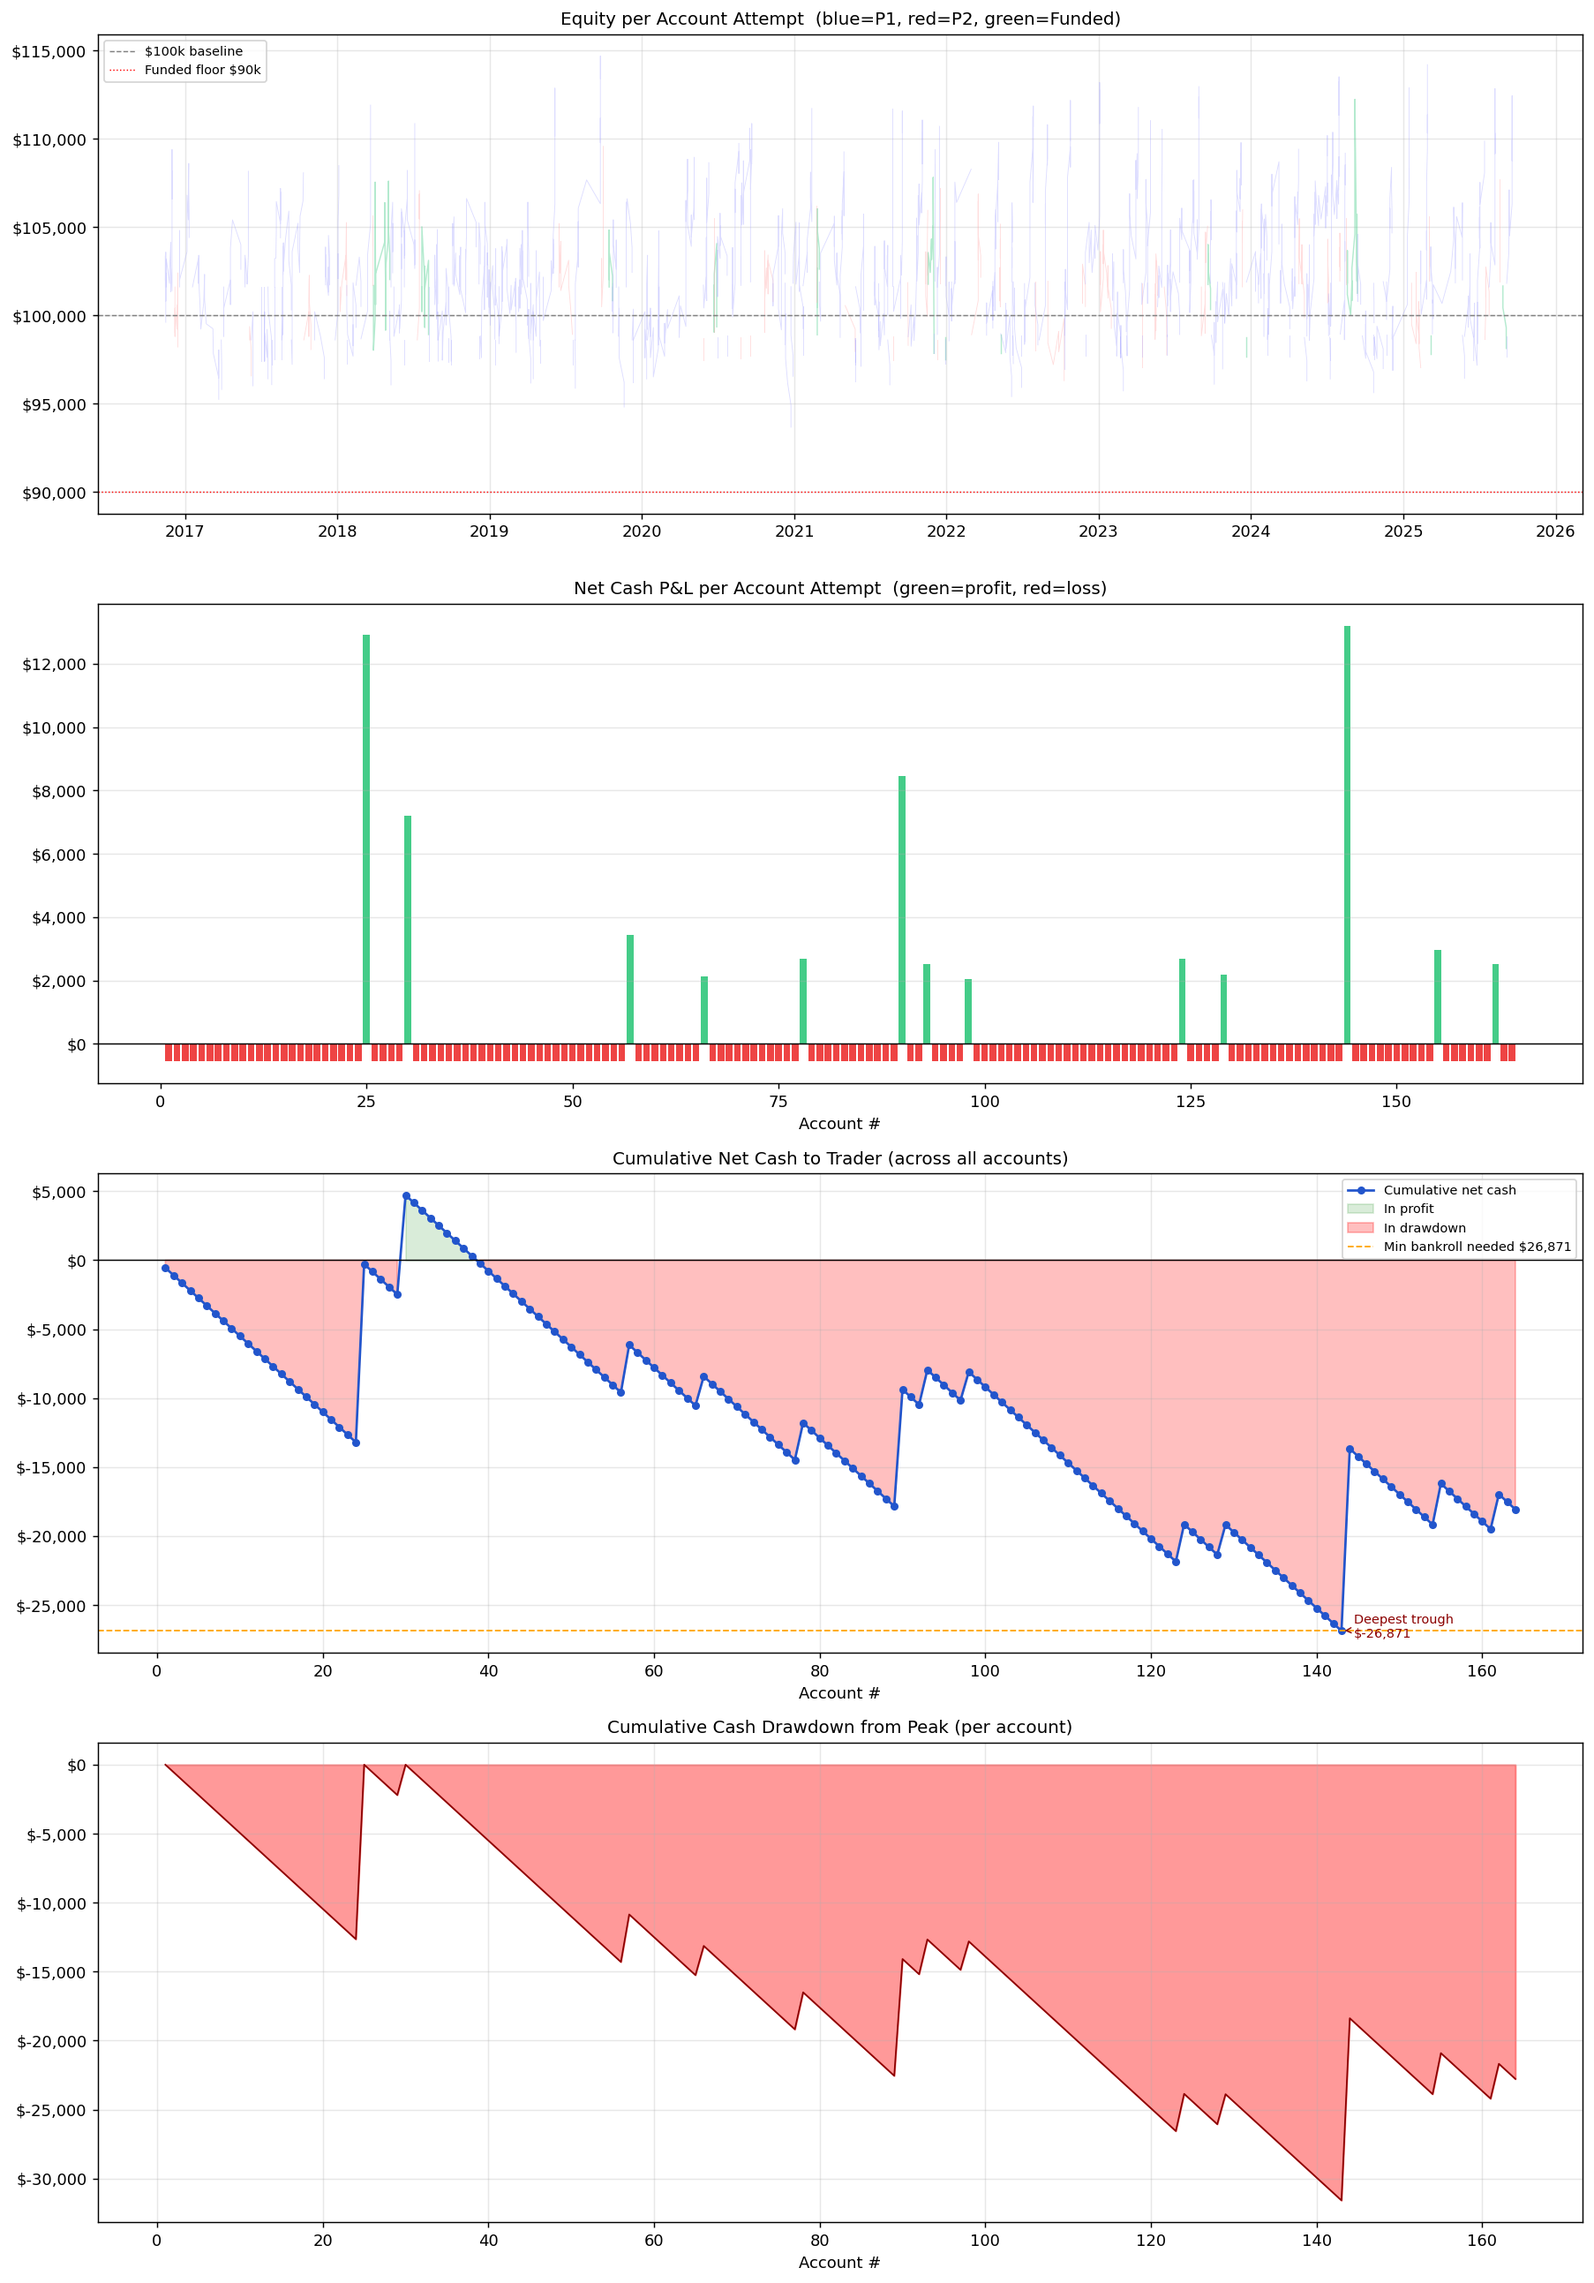
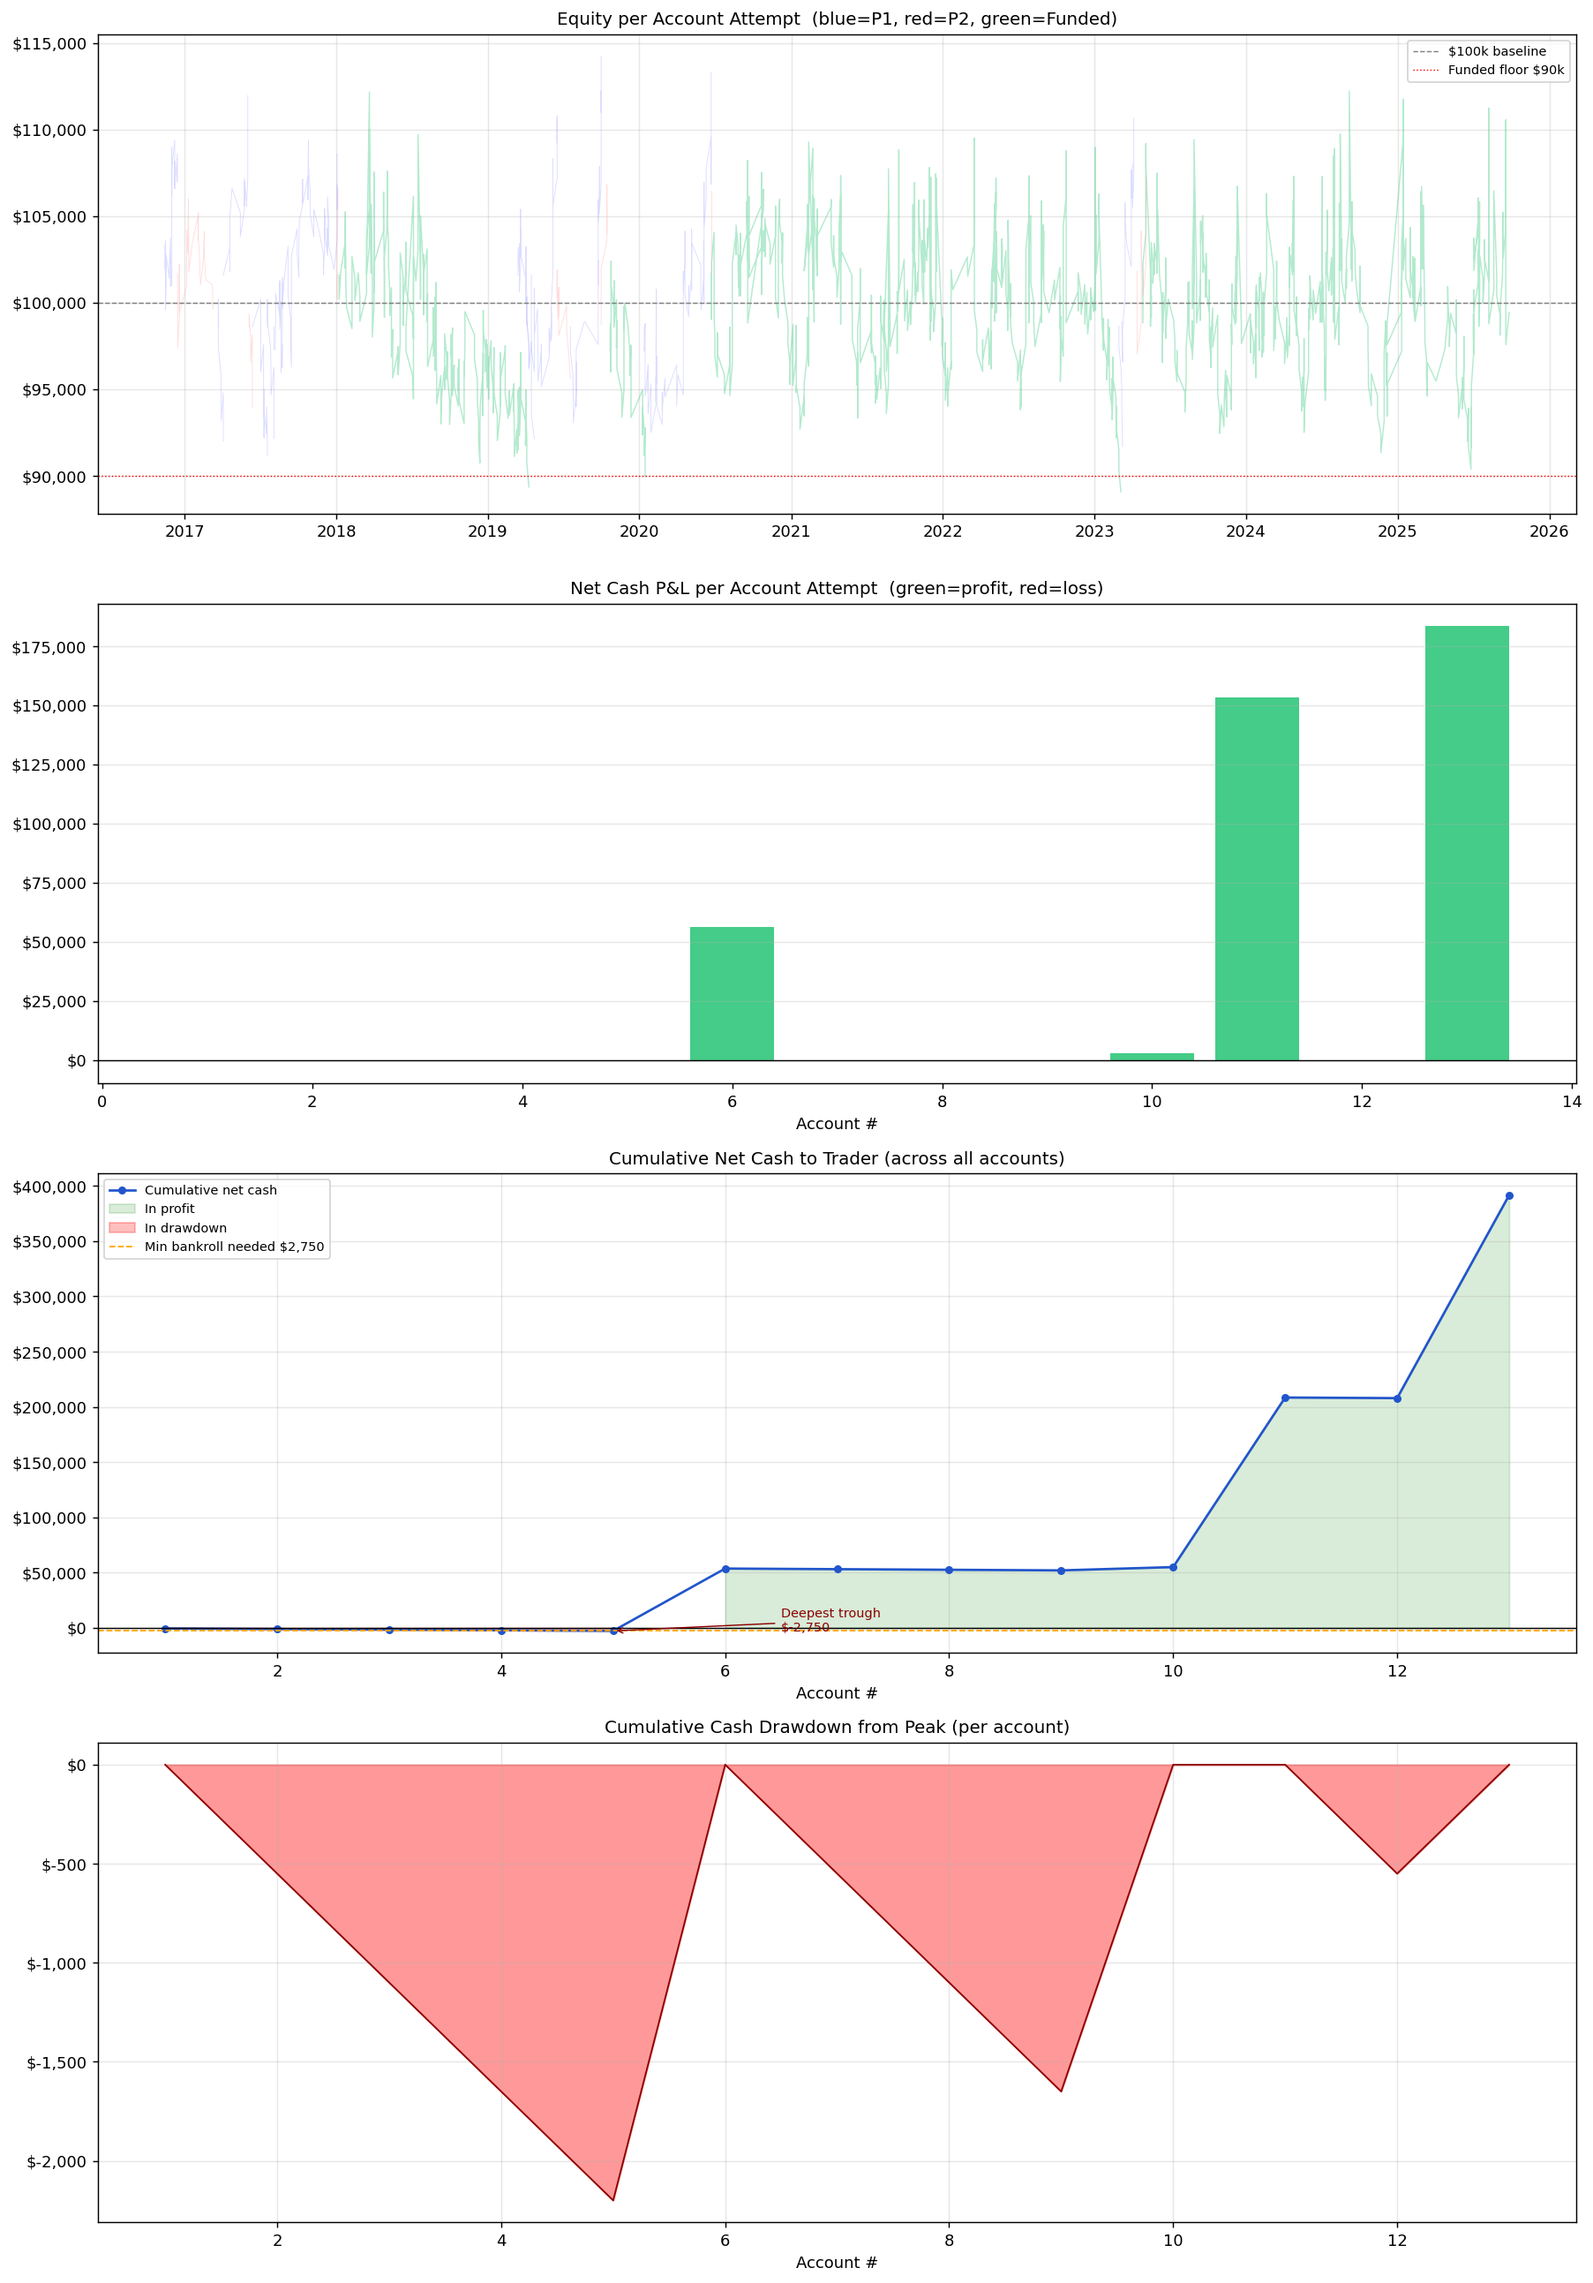
Fix: $2k is personal daily stop (not prop-firm DD), restore 5k prop-firm daily DD
Agent-Logs-Url: https://github.com/samiabat/potential-octo-telegram/sessions/06f3bbd6-4395-4cde-8c83-08caba7a1cae

diff --git a/run_funded_sim.py b/run_funded_sim.py
@@ -11,11 +11,16 @@ Prop-firm rules assumed:
   Phase 1 profit target : 8%  = $8,000   |  max DD (trailing) : 8%  = $8,000
   Phase 2 profit target : 5%  = $5,000   |  max DD (trailing) : 5%  = $5,000
   Funded max DD         : 10% = $10,000  (static — floor = $90,000)
-  Daily DD limit        : $2,000/day     (all phases, from SOD equity)
+  Daily DD limit        : 5%  = $5,000   (prop-firm rule — all phases, from SOD equity)
   Fee reimbursed        : yes, when both challenge phases are passed
   Challenge bonus       : 15% of net challenge P&L (P1+P2), paid on funding
   Profit split          : 90% to trader
   Payout trigger        : $5,000 funded profit (equity ≥ $105,000)
+
+Personal risk management:
+  Personal daily stop   : $2,000/day  — trader stops trading for the rest of the day
+                          once the day's loss reaches $2k. The account is NOT blown;
+                          prop-firm daily limit ($5k) is the actual account-killer.
 
 Risk sizing: 1% of $100k = $1,000 per R  (scaled from original $10k backtests)
 """
@@ -46,7 +51,8 @@ P2_TRAIL_DD       = 5_000       # 5% trailing from peak
 # Funded thresholds
 FUNDED_STATIC_DD  = 10_000      # 10% below $100k → floor = $90k
 FUNDED_FLOOR      = ACCOUNT_SIZE - FUNDED_STATIC_DD   # $90,000
-DAILY_DD_LIMIT    = 2_000       # $2,000/day max loss (from SOD equity)
+DAILY_DD_LIMIT       = 5_000       # 5% of $100k — prop-firm rule (account blown if breached)
+PERSONAL_DAILY_STOP  = 2_000       # trader's self-imposed stop: quit the day at -$2k (no blow)
 
 PAYOUT_TRIGGER    = 5_000       # request payout when funded profit ≥ $5,000
 
@@ -68,35 +74,49 @@ print()
 
 # ── Helper — simulate one "phase" from a given trade index ─────────────────────
 def run_phase(trade_idx, start_equity, trail_dd_limit, profit_target,
-              daily_dd_limit=DAILY_DD_LIMIT):
+              daily_dd_limit=DAILY_DD_LIMIT,
+              personal_daily_stop=PERSONAL_DAILY_STOP):
     """
     Simulate one challenge phase (or funded period with profit_target=None).
+
+    Prop-firm blow conditions (account lost):
+      • daily_dd_limit  : day's loss from SOD equity exceeds prop-firm limit ($5k)
+      • trail_dd_limit  : equity drops more than X below trailing peak (challenge phases)
+      • funded floor    : equity falls below $90k (funded phase)
+
+    Personal risk management:
+      • personal_daily_stop : if day's loss reaches this amount ($2k), skip the rest of
+                              today's trades and move to the next trading day (no blow).
 
     Returns dict with keys:
       end_idx       : next trade index after this phase
       end_equity    : final equity
-      blown         : bool — hit a DD limit
+      blown         : bool — hit a prop-firm DD limit (account gone)
       target_hit    : bool — hit the profit target
       trades_log    : list of (date, pnl, equity) tuples
-      daily_blown   : bool — blown by daily DD specifically
+      daily_blown   : bool — blown by the prop-firm daily DD specifically
+      days_stopped  : int  — number of days trading was cut short by personal stop
     """
     equity = start_equity
     peak   = start_equity          # for trailing DD
     blown  = False
-    daily_blown = False
-    target_hit  = False
-    trades_log  = []
+    daily_blown  = False
+    target_hit   = False
+    trades_log   = []
+    days_stopped = 0               # count of days ended early by personal stop
 
     # Group trades by day for daily-DD enforcement
     remaining = trades.iloc[trade_idx:].copy()
     if remaining.empty:
         return dict(end_idx=trade_idx, end_equity=equity, blown=False,
-                    target_hit=False, trades_log=[], daily_blown=False)
+                    target_hit=False, trades_log=[], daily_blown=False,
+                    days_stopped=0)
 
     idx = trade_idx
     for date, day_grp in remaining.groupby("date"):
-        sod_equity = equity          # start-of-day for daily DD check
-        day_blown  = False
+        sod_equity      = equity          # start-of-day for daily DD / personal stop
+        day_blown       = False
+        day_personally_stopped = False
 
         for row_idx in day_grp.index:
             row = trades.loc[row_idx]
@@ -106,33 +126,44 @@ def run_phase(trade_idx, start_equity, trail_dd_limit, profit_target,
             idx += 1
             trades_log.append((date, pnl, equity))
 
-            # ── Daily DD check ─────────────────────────────────────
-            if sod_equity - equity > daily_dd_limit:
+            day_loss = sod_equity - equity   # positive = loss on the day
+
+            # ── Prop-firm daily DD check (account blown) ────────────
+            if day_loss >= daily_dd_limit:
                 blown = True; daily_blown = True; day_blown = True
                 break
 
-            # ── Phase DD check (trailing from peak) ────────────────
+            # ── Phase DD check (trailing from peak) ─────────────────
             if trail_dd_limit is not None:
                 if peak - equity > trail_dd_limit:
                     blown = True; day_blown = True
                     break
 
-            # ── Funded static floor check ───────────────────────────
+            # ── Funded static floor check ────────────────────────────
             if trail_dd_limit is None:          # funded — static floor
                 if equity < FUNDED_FLOOR:
                     blown = True; day_blown = True
                     break
 
+            # ── Personal daily stop (not a blow — just done for today)
+            if personal_daily_stop is not None and day_loss >= personal_daily_stop:
+                day_personally_stopped = True
+                break
+
         if day_blown or blown:
             break
 
-        # ── End-of-day profit target check ─────────────────────────
+        if day_personally_stopped:
+            days_stopped += 1
+            # continue to next day — account still live
+
+        # ── End-of-day profit target check ──────────────────────────
         if profit_target is not None:
             if equity - ACCOUNT_SIZE >= profit_target:
                 target_hit = True
                 break
 
-        # ── Funded payout check (end of day) ───────────────────────
+        # ── Funded payout check (end of day) ─────────────────────────
         if profit_target is None:
             if equity - ACCOUNT_SIZE >= PAYOUT_TRIGGER:
                 target_hit = True   # signals "payout ready"
@@ -140,7 +171,7 @@ def run_phase(trade_idx, start_equity, trail_dd_limit, profit_target,
 
     return dict(end_idx=idx, end_equity=equity, blown=blown,
                 target_hit=target_hit, trades_log=trades_log,
-                daily_blown=daily_blown)
+                daily_blown=daily_blown, days_stopped=days_stopped)
 
 
 # ── Main simulation ────────────────────────────────────────────────────────────
@@ -174,6 +205,7 @@ while trade_idx < N:
         challenge_bonus=0.0, fee_reimbursed=0.0,
         blown_phase=None, reason=None,
         p1_trades=0, p2_trades=0, funded_trades=0,
+        days_stopped=0,    # total days cut short by personal $2k stop
     )
     total_fees_paid += CHALLENGE_FEE
     global_equity   -= CHALLENGE_FEE
@@ -182,6 +214,7 @@ while trade_idx < N:
     res1 = run_phase(trade_idx, ACCOUNT_SIZE, P1_TRAIL_DD, P1_PROFIT_TARGET)
     entry["p1_pnl"]    = res1["end_equity"] - ACCOUNT_SIZE
     entry["p1_trades"] = res1["end_idx"] - trade_idx
+    entry["days_stopped"] += res1["days_stopped"]
     for date, pnl, eq in res1["trades_log"]:
         equity_curve.append((account_num, "p1", date, pnl, eq))
     trade_idx = res1["end_idx"]
@@ -201,6 +234,7 @@ while trade_idx < N:
     res2 = run_phase(trade_idx, ACCOUNT_SIZE, P2_TRAIL_DD, P2_PROFIT_TARGET)
     entry["p2_pnl"]    = res2["end_equity"] - ACCOUNT_SIZE
     entry["p2_trades"] = res2["end_idx"] - trade_idx
+    entry["days_stopped"] += res2["days_stopped"]
     for date, pnl, eq in res2["trades_log"]:
         equity_curve.append((account_num, "p2", date, pnl, eq))
     trade_idx = res2["end_idx"]
@@ -235,7 +269,8 @@ while trade_idx < N:
         res_f = run_phase(trade_idx, funded_equity, None, None)
         for date, pnl, eq in res_f["trades_log"]:
             equity_curve.append((account_num, "funded", date, pnl, eq))
-        entry["funded_trades"] += res_f["end_idx"] - trade_idx
+        entry["funded_trades"]  += res_f["end_idx"] - trade_idx
+        entry["days_stopped"]   += res_f["days_stopped"]
         trade_idx  = res_f["end_idx"]
         funded_equity = res_f["end_equity"]
 
@@ -297,6 +332,7 @@ total_accounts = len(al)
 total_fees     = total_fees_paid
 total_payouts  = total_payouts_received
 net_cash       = global_equity    # final net position of trader
+total_days_stopped = int(al["days_stopped"].sum())   # days cut short by personal stop
 
 # ── Bankroll / Runway analysis ─────────────────────────────────────────────────
 # Build the cumulative cash curve, one step per account outcome
@@ -365,7 +401,8 @@ fee_per_streak = max_consec_blown * CHALLENGE_FEE
 
 print()
 print("=" * 60)
-print("  FUNDED ACCOUNT SIMULATION — RESULTS  (daily DD = $2,000)")
+print(f"  FUNDED ACCOUNT SIMULATION — RESULTS")
+print(f"  Prop-firm daily DD : $5,000  |  Personal daily stop : $2,000")
 print("=" * 60)
 print()
 print("── Account Attempts ──────────────────────────────────────")
@@ -399,6 +436,7 @@ print(f"  Longest stretch in red     : {longest_negative_run} consecutive accoun
 print(f"  Max consecutive blown      : {max_consec_blown}  (cost ${fee_per_streak:,.0f} in fees alone)")
 print(f"  Avg consecutive blown      : {avg_consec_blown:.1f}")
 print(f"  Worst 10-account window    : ${worst_10_window:>10,.2f}  (net over any 10-account stretch)")
+print(f"  Days stopped by $2k rule   : {total_days_stopped}  (trading halted early, account kept)")
 print()
 
 # ── Per-account table ──────────────────────────────────────────────────────────
@@ -420,7 +458,8 @@ al.to_csv(RESULTS_DIR / "account_log.csv", index=False)
 pl.to_csv(RESULTS_DIR / "payout_log.csv", index=False)
 
 stats = dict(
-    daily_dd_limit=DAILY_DD_LIMIT,
+    prop_firm_daily_dd_limit=DAILY_DD_LIMIT,
+    personal_daily_stop=PERSONAL_DAILY_STOP,
     total_accounts_bought=int(total_accounts),
     blown_p1=int(blown_p1),
     blown_p2=int(blown_p2),
@@ -441,6 +480,7 @@ stats = dict(
     max_consecutive_blown=int(max_consec_blown),
     avg_consecutive_blown=round(avg_consec_blown, 1),
     worst_10_account_window=round(worst_10_window, 2),
+    total_days_stopped_by_personal_rule=int(total_days_stopped),
 )
 with open(RESULTS_DIR / "stats.json", "w") as f:
     json.dump(stats, f, indent=2)
